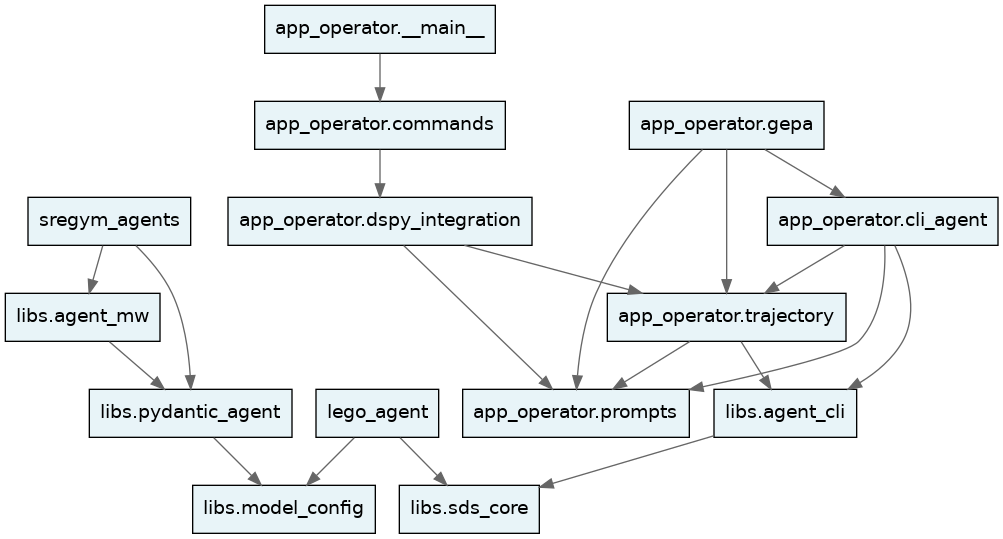
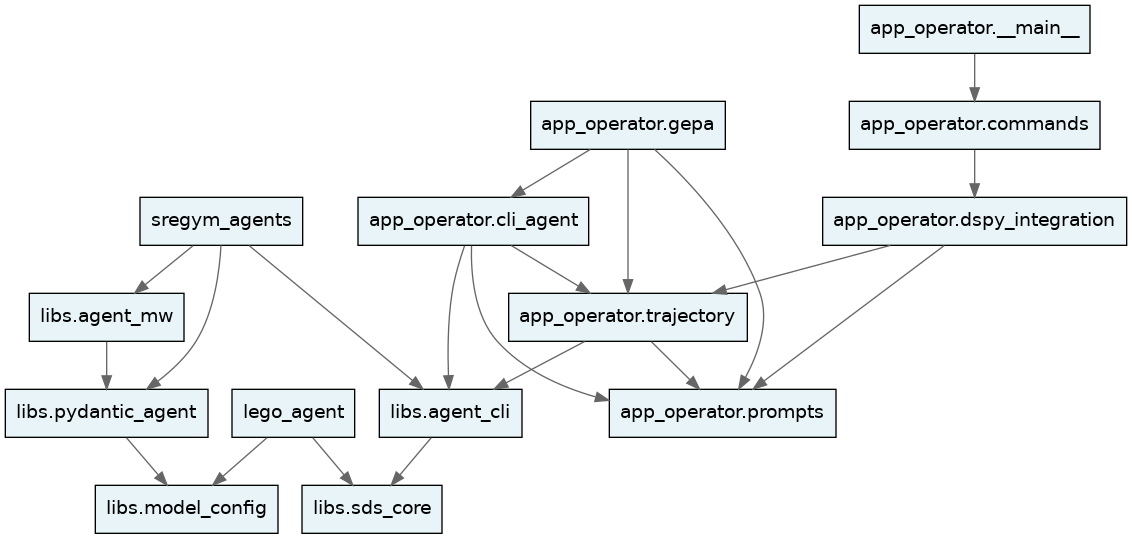
fix(ci): resolve formatting, import, and tach graph failures
- Use public sregym_agents.crucible.tools re-exports instead of private
  _deps/_kb_tools submodules in agents/ package (architecture test)
- Update test_crucible_token_attrs.py file paths after backend/ → agents/ move
- Regenerate tach_module_graph with new sregym_agents → libs.agent_cli edge
- Format agent_cli_driver.py with autopep8

diff --git a/tests/unit/test_crucible_token_attrs.py b/tests/unit/test_crucible_token_attrs.py
@@ -8,8 +8,10 @@ from pathlib import Path
 # names like ``last_request_tokens`` (a context-window byte counter).
 DEPRECATED = [r"\.request_tokens\b", r"\.response_tokens\b"]
 FILES = [
-    Path("sregym_agents/crucible/backend/pydantic_ai_driver.py"),
-    Path("sregym_agents/crucible/backend/agents.py"),
+    Path("sregym_agents/crucible/agents/drivers/pydantic_ai_driver.py"),
+    Path("sregym_agents/crucible/agents/sre_agent.py"),
+    Path("sregym_agents/crucible/agents/judge_agent.py"),
+    Path("sregym_agents/crucible/agents/recovery_agent.py"),
 ]
 
 
